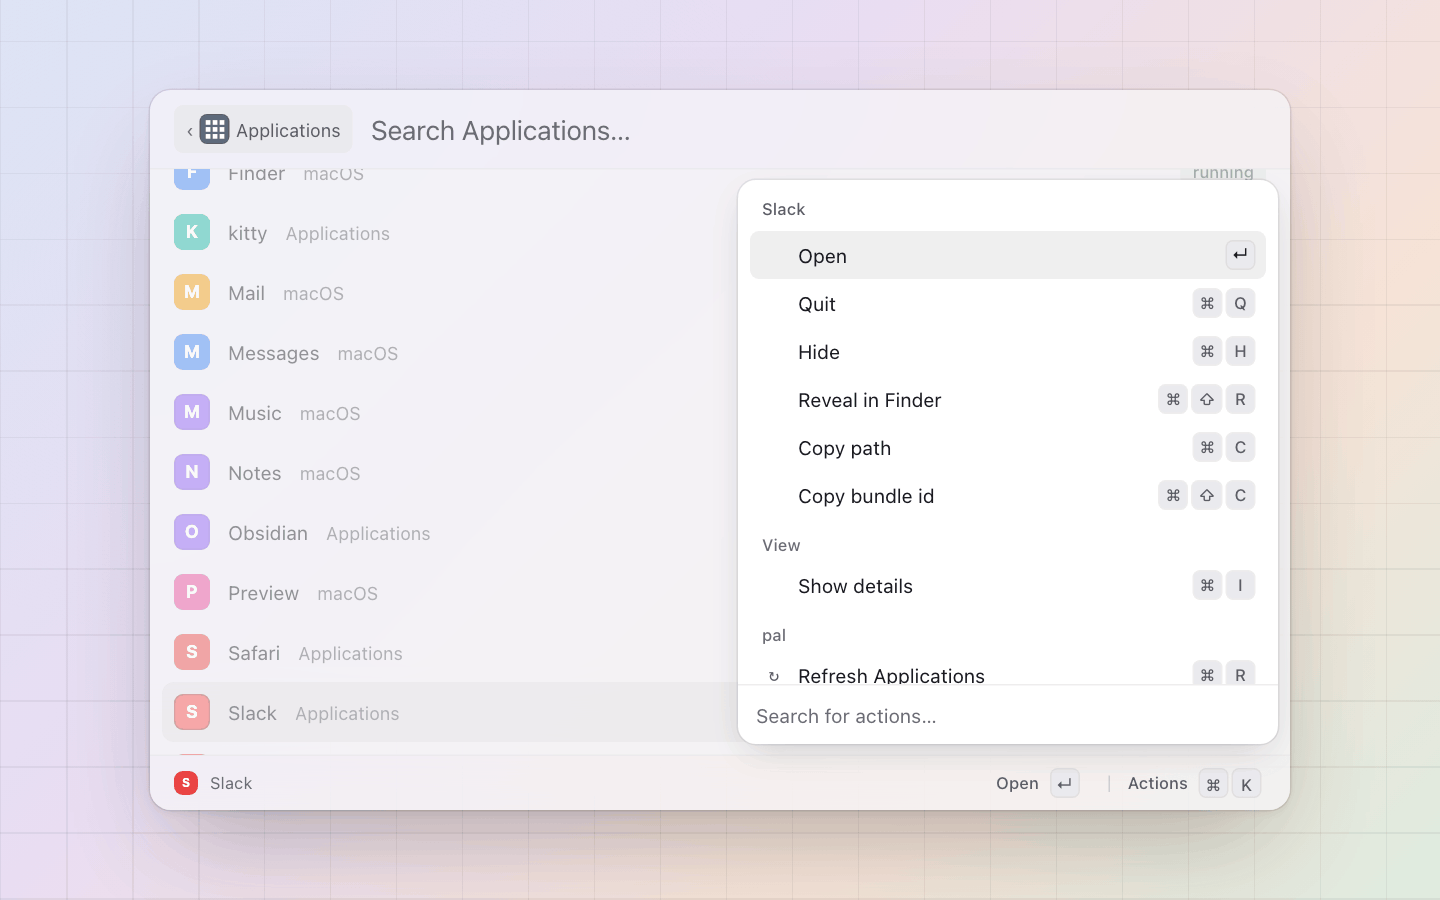
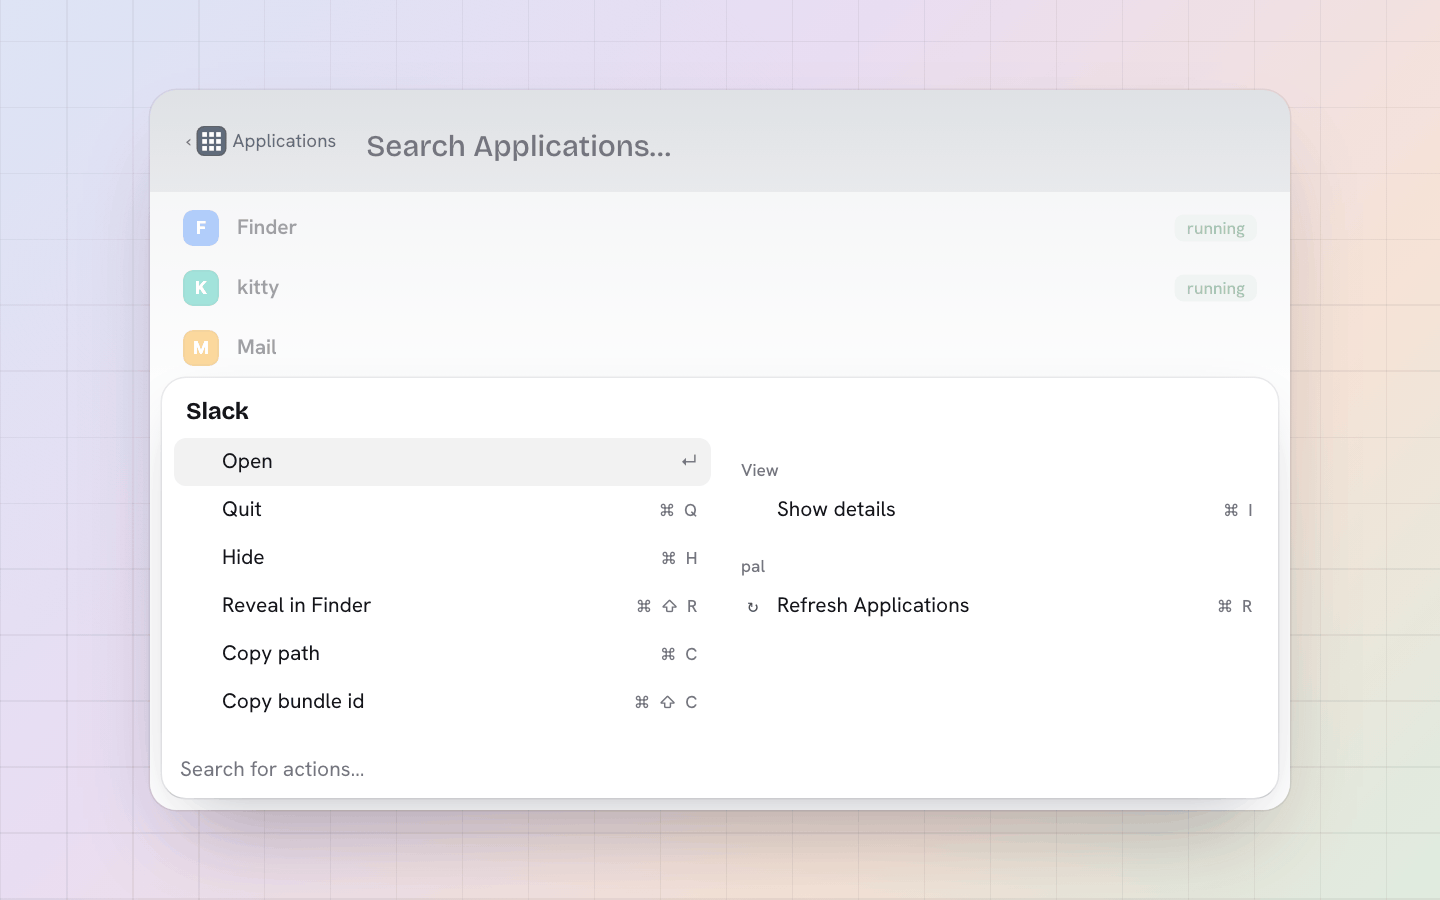
apps: the usual roots drop their subtitle; details lead with the folder over the name, running and the version as chips; a detail shot

diff --git a/extensions/apps/index.ts b/extensions/apps/index.ts
@@ -6,7 +6,7 @@
 // on Linux a .desktop file's own actions ("New Private Window") are the
 // row's secondary actions.
 import { readdir } from "node:fs/promises";
-import { exec, failed, home, run, settings, terminal, type Action, type Ctx, type Detail, type Extension, type Item, type Metadata } from "@zcag/pal";
+import { exec, failed, home, run, settings, terminal, tilde, type Action, type Ctx, type Detail, type Extension, type Item, type Metadata } from "@zcag/pal";
 import { execArgv, parseDesktop, splitList, type DesktopAction } from "./desktop.ts";
 
 /** `[extensions.apps]`, defaults in pal.json. */
@@ -20,10 +20,11 @@ const OSASCRIPT_MS = 3000;
 
 // ---- macOS ---------------------------------------------------------------
 
-const MAC_ROOTS: [string, string][] = [
-  ["/Applications", "Applications"],
-  ["/System/Applications", "macOS"],
-  [`${HOME}/Applications`, "User"],
+/** The roots and their rows' subtitle: none for the two every Mac has (it would say the same on every row), the folder for the rest. */
+const MAC_ROOTS: [string, string | undefined][] = [
+  ["/Applications", undefined],
+  ["/System/Applications", undefined],
+  [`${HOME}/Applications`, "~/Applications"],
 ];
 
 // Every app action works on marked rows too (`multi`): launch, quit, hide or reveal several, copy their paths or ids one per line.
@@ -77,7 +78,7 @@ async function scanMac(extra: string[]): Promise<Item[]> {
   const items: Item[] = [];
   const running = await runningPids();
   macApps.clear();
-  for (const [root, source] of [...MAC_ROOTS, ...extra.map((f): [string, string] => [f, f])]) {
+  for (const [root, source] of [...MAC_ROOTS, ...extra.map((f): [string, string] => [f, tilde(f)])]) {
     for (const path of await bundles(root)) {
       const name = path.slice(path.lastIndexOf("/") + 1, -4);
       if (seen.has(name.toLowerCase())) continue; // the first root wins a name (Set.add answers the set, so the old `!seen.add` never skipped)
@@ -90,7 +91,7 @@ async function scanMac(extra: string[]): Promise<Item[]> {
       items.push({
         id: path,
         name,
-        subtitle: source,
+        ...(source && { subtitle: source }),
         icon: { app: path },
         keywords,
         ...(isRunning && { accessories: [{ tag: "running", color: "green" }] }),
@@ -211,23 +212,27 @@ async function pickMac(id: string, action?: string, ctx?: Ctx) {
   }
 }
 
-/** The detail pane: the path, bundle id and version of an app (read from its plist on request), or a pane's url. */
+/** The detail pane: the app's folder over its name, running and its version as chips, the bundle id and processes under it; a pane says where it opens. */
 async function detailMac(id: string): Promise<Detail> {
   if (id.startsWith(PANE)) {
     const paneId = id.slice(PANE.length);
     const pane = PANES.find(([p]) => p === paneId);
-    return { markdown: `# ${pane?.[1] ?? paneId}\n\nA System Settings pane`, metadata: [{ label: "Opens", value: paneUrl(paneId) }, ...(pane ? [{ label: "Keywords", tags: pane[2].map((text) => ({ text })) }] : [])] };
+    return { caption: "System Settings", title: pane?.[1] ?? paneId, metadata: [{ label: "Opens", value: paneUrl(paneId) }, ...(pane ? [{ label: "Found by", tags: pane[2].map((text) => ({ text })) }] : [])] };
   }
   if (!macApps.has(id)) await apps();
   const app = macApps.get(id);
   const plist = await Bun.file(`${id}/Contents/Info.plist`).text().catch(() => "");
   const version = plistKey(plist, "CFBundleShortVersionString") ?? plistKey(plist, "CFBundleVersion");
   const pids = (await runningPids()).get(id) ?? [];
-  const metadata: Metadata[] = [{ label: "Path", value: id }];
+  const metadata: Metadata[] = [];
   if (app?.bundleId) metadata.push({ label: "Bundle id", value: app.bundleId });
-  if (version) metadata.push({ label: "Version", value: version });
-  metadata.push(pids.length ? { label: "Running", tags: [{ text: pids.length === 1 ? `pid ${pids[0]}` : `${pids.length} processes`, color: "green" }] } : { label: "Running", value: "No" });
-  return { markdown: `# ${app?.name ?? id.slice(id.lastIndexOf("/") + 1, -4)}`, metadata };
+  if (pids.length) metadata.push({ label: pids.length === 1 ? "Process" : "Processes", value: pids.join(", ") });
+  return {
+    caption: tilde(id.slice(0, id.lastIndexOf("/"))),
+    title: app?.name ?? id.slice(id.lastIndexOf("/") + 1, -4),
+    chips: [...(pids.length ? [{ text: "running", color: "green" as const }] : []), ...(version ? [{ text: `version ${version}` }] : [])],
+    metadata,
+  };
 }
 
 // ---- Linux ---------------------------------------------------------------
@@ -256,7 +261,7 @@ async function installed(prog?: string): Promise<boolean> {
   return !!Bun.which(prog);
 }
 
-type Entry = { file: string; id: string; exec: string[]; terminal: boolean; actions: DesktopAction[] };
+type Entry = { file: string; id: string; name: string; exec: string[]; terminal: boolean; actions: DesktopAction[] };
 const entries = new Map<string, Entry>();
 const ACTION = "action:";
 
@@ -276,7 +281,7 @@ async function scanLinux(extra: string[]): Promise<Item[]> {
       if (e.NoDisplay === "true" || e.Hidden === "true" || !shownHere(e) || !(await installed(e.TryExec))) continue;
       const exec = execArgv(e.Exec);
       if (!exec.length) continue;
-      entries.set(file, { file, id, exec, terminal: e.Terminal === "true", actions });
+      entries.set(file, { file, id, name: e.Name, exec, terminal: e.Terminal === "true", actions });
       const bin = exec[0].slice(exec[0].lastIndexOf("/") + 1);
       const keywords = [...new Set([e.GenericName, ...splitList(e.Keywords), bin, id.slice(0, -8)].filter((k): k is string => !!k))];
       items.push({
@@ -318,17 +323,16 @@ function launchLinux(file: string, action?: string) {
   spawnDetached(e.exec);
 }
 
-/** The detail pane: the desktop file, its command and its own actions. */
+/** The detail pane: the desktop file's folder over the app's name, what it runs and its own actions. */
 async function detailLinux(id: string): Promise<Detail> {
   if (!entries.has(id)) await apps();
   const e = entries.get(id);
-  const metadata: Metadata[] = [{ label: "File", value: id }];
+  const metadata: Metadata[] = [];
   if (e) {
     metadata.push({ label: "Runs", value: e.exec.join(" ") });
-    if (e.terminal) metadata.push({ label: "Terminal", value: "Yes" });
     if (e.actions.length) metadata.push({ label: "Actions", tags: e.actions.map((a) => ({ text: a.name })) });
   }
-  return { markdown: `# ${e?.id.slice(0, -8) ?? id}`, metadata };
+  return { caption: tilde(id.slice(0, id.lastIndexOf("/"))), title: e?.name ?? id.slice(id.lastIndexOf("/") + 1, -8), ...(e?.terminal && { chips: [{ text: "in a terminal" }] }), metadata };
 }
 
 async function pickLinux(id: string, action?: string, ctx?: Ctx) {

diff --git a/host/test/extensions/apps.test.ts b/host/test/extensions/apps.test.ts
@@ -96,7 +96,7 @@ describe.skipIf(!mac)("apps", () => {
     expect(chrome.id).toBe("/Applications/Google Chrome.app");
     expect(chrome.icon).toEqual({ app: "/Applications/Google Chrome.app" });
     expect(chrome.keywords).toEqual(["com.google.Chrome", "Chrome"]); // the bundle id, then CFBundleName
-    expect(chrome.subtitle).toBe("Applications");
+    expect(chrome.subtitle).toBeUndefined(); // the usual roots say nothing: it would be the same on every row
     if (!chrome.accessories) expect(chrome.actions).toBeUndefined();
     for (const i of items) expect(existsSync((i.icon as { app: string }).app), i.name).toBe(true);
     expect(items.map((i) => i.name)).toEqual([...items.map((i) => i.name)].sort((a, b) => a.localeCompare(b)));
@@ -154,12 +154,16 @@ describe.skipIf(!mac)("apps", () => {
     expect(await host.pick("apps", "apps", kb, "copy-url", { ids: [kb, tp] })).toEqual({ copy: "x-apple.systempreferences:com.apple.Keyboard-Settings.extension\nx-apple.systempreferences:com.apple.Trackpad-Settings.extension" });
   });
 
-  test("detail: the path, bundle id and version of an app; a pane's url", async () => {
+  test("detail: the folder over the name, the version as a chip, the bundle id; a pane's url", async () => {
     const d = await host.detail("apps", "apps", "/Applications/Google Chrome.app");
-    expect(d.markdown).toBe("# Google Chrome");
-    expect(d.metadata!.map((m) => m.label)).toEqual(["Path", "Bundle id", "Version", "Running"]);
-    expect(d.metadata![1].value).toBe("com.google.Chrome");
+    expect(d).toMatchObject({ caption: "/Applications", title: "Google Chrome" });
+    expect(d.chips!.some((c) => c.text.startsWith("version "))).toBe(true);
+    expect(d.metadata![0]).toEqual({ label: "Bundle id", value: "com.google.Chrome" });
+    const fake = await host.detail("apps", "apps", fakeApp);
+    expect(fake.chips![0]).toEqual({ text: "running", color: "green" });
+    expect(fake.metadata!.map((m) => m.label)).toEqual(["Bundle id", "Process"]);
     const pane = await host.detail("apps", "apps", "pane:com.apple.Keyboard-Settings.extension");
+    expect(pane).toMatchObject({ caption: "System Settings", title: "Keyboard" });
     expect(pane.metadata![0]).toEqual({ label: "Opens", value: "x-apple.systempreferences:com.apple.Keyboard-Settings.extension" });
   });
 

diff --git a/extensions/apps/README.md b/extensions/apps/README.md
@@ -1,8 +1,8 @@
 # Applications
 
 Installed applications with their own icons, one indexed palette. The row
-is the app's name, its source the subtitle (Applications, macOS, User, or
-the extra folder it came from), and Enter launches it. The bundle id and
+is the app's name (with the folder as its subtitle only when it is not
+/Applications or /System/Applications), and Enter launches it. The bundle id and
 the display name are keywords, so `com.apple.` or `anthropic` finds the
 app and `Chrome` finds Google Chrome. Rows are sorted by name; the palette
 is indexed, so every app is a root result and `⌘R` rescans.
@@ -50,7 +50,7 @@ rather than launching it.
 | `cmd+c` | Copy path (a pane: Copy URL) |
 | `cmd+shift+c` | Copy bundle id |
 | `cmd+r` | Rescan the application folders |
-| `cmd+i` | Details: the path, bundle id, version and whether it runs (on Linux the desktop file, its command and its actions) |
+| `cmd+i` | Details: the folder over the name, running and the version as chips, the bundle id and processes (on Linux the desktop file's folder, its command and its actions) |
 
 On Linux the actions are Open, the entry's own desktop actions, and Copy
 path.

diff --git a/docs/palettes.md b/docs/palettes.md
@@ -185,8 +185,10 @@ second account gets the same palettes under `<name>@<suffix>-<palette>`
 Installed applications with their own icons.
 
 - **macOS**: `.app` bundles in `/Applications`, `/System/Applications` and
-  `~/Applications`, one level deep so the Utilities folders come along. The
-  row's subtitle is where it came from (Applications, macOS, User). The
+  `~/Applications`, one level deep so the Utilities folders come along. A
+  row from `~/Applications` or an extra folder has the folder as its
+  subtitle; the two usual roots say nothing. The details (`⌘I`) lead with
+  the folder over the name, running and the version as chips. The
   bundle id is a keyword, so `com.apple.` or `anthropic` finds the app.
   Enter opens the bundle path with the system opener.
 - **Linux**: `.desktop` entries from every XDG data dir (`~/.local/share`,
